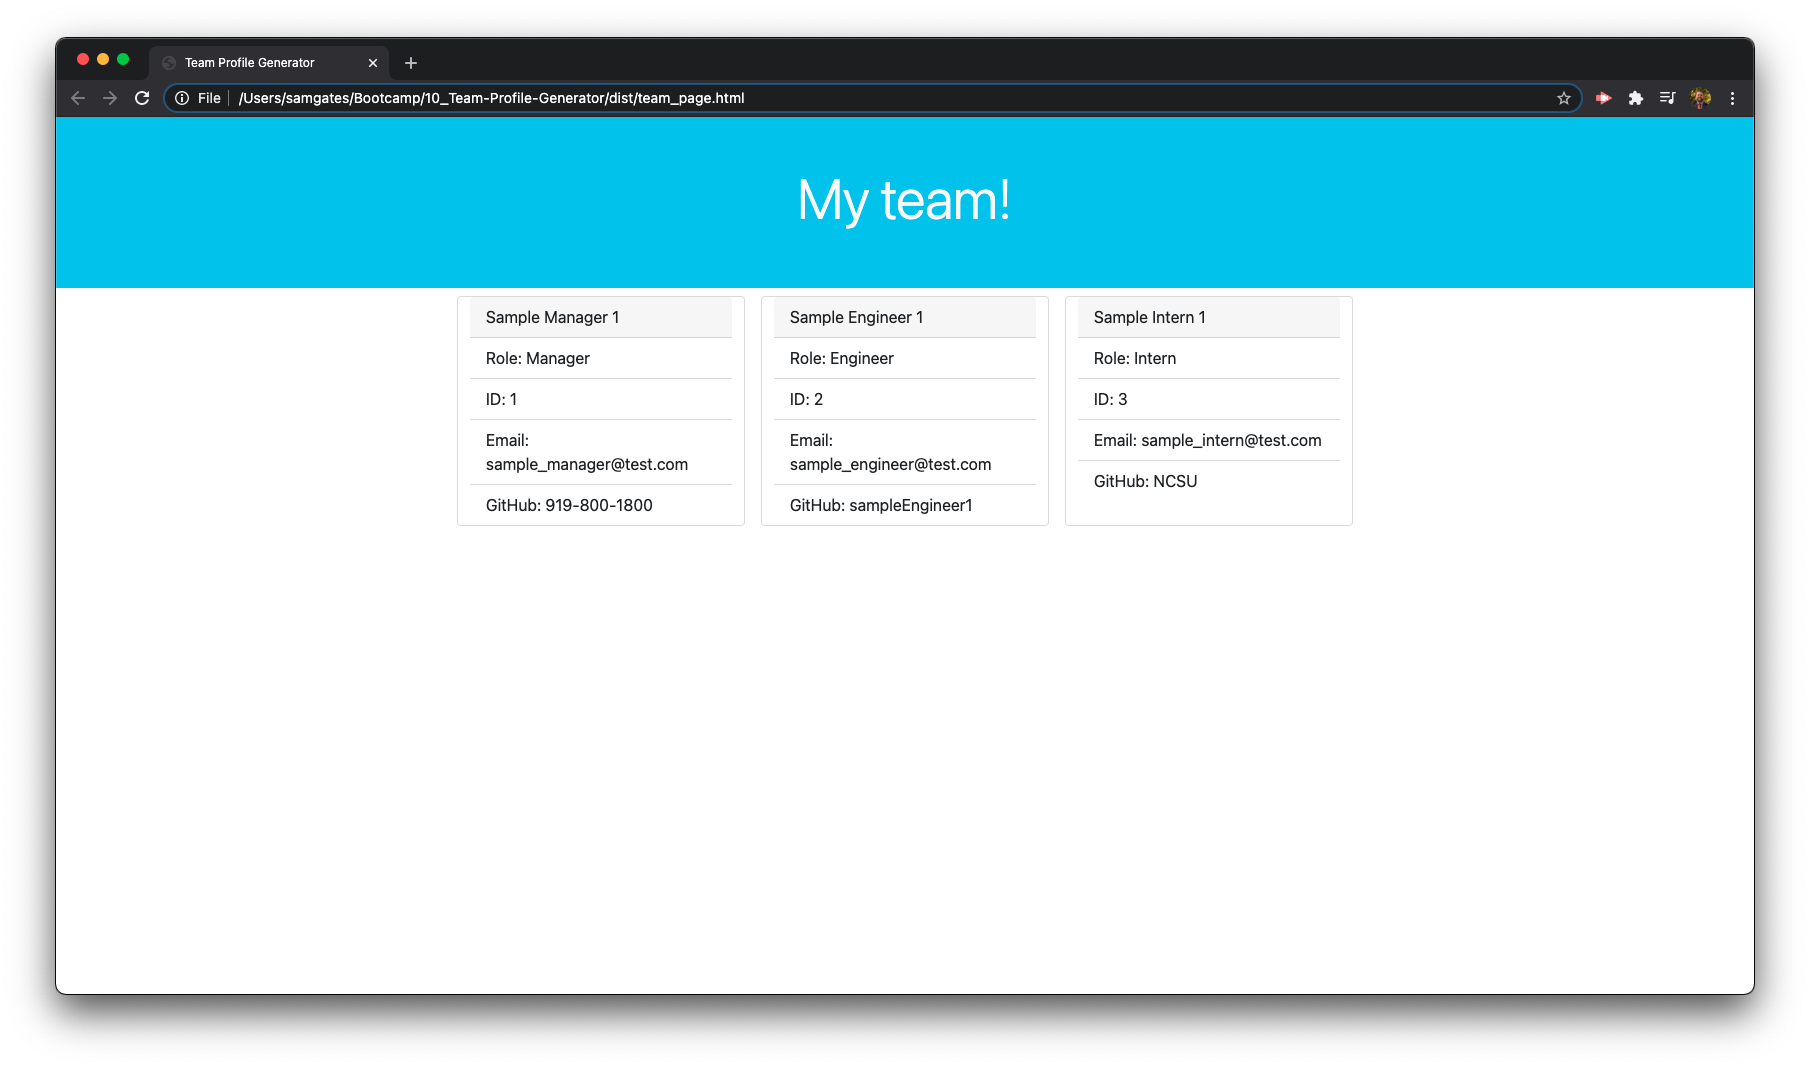
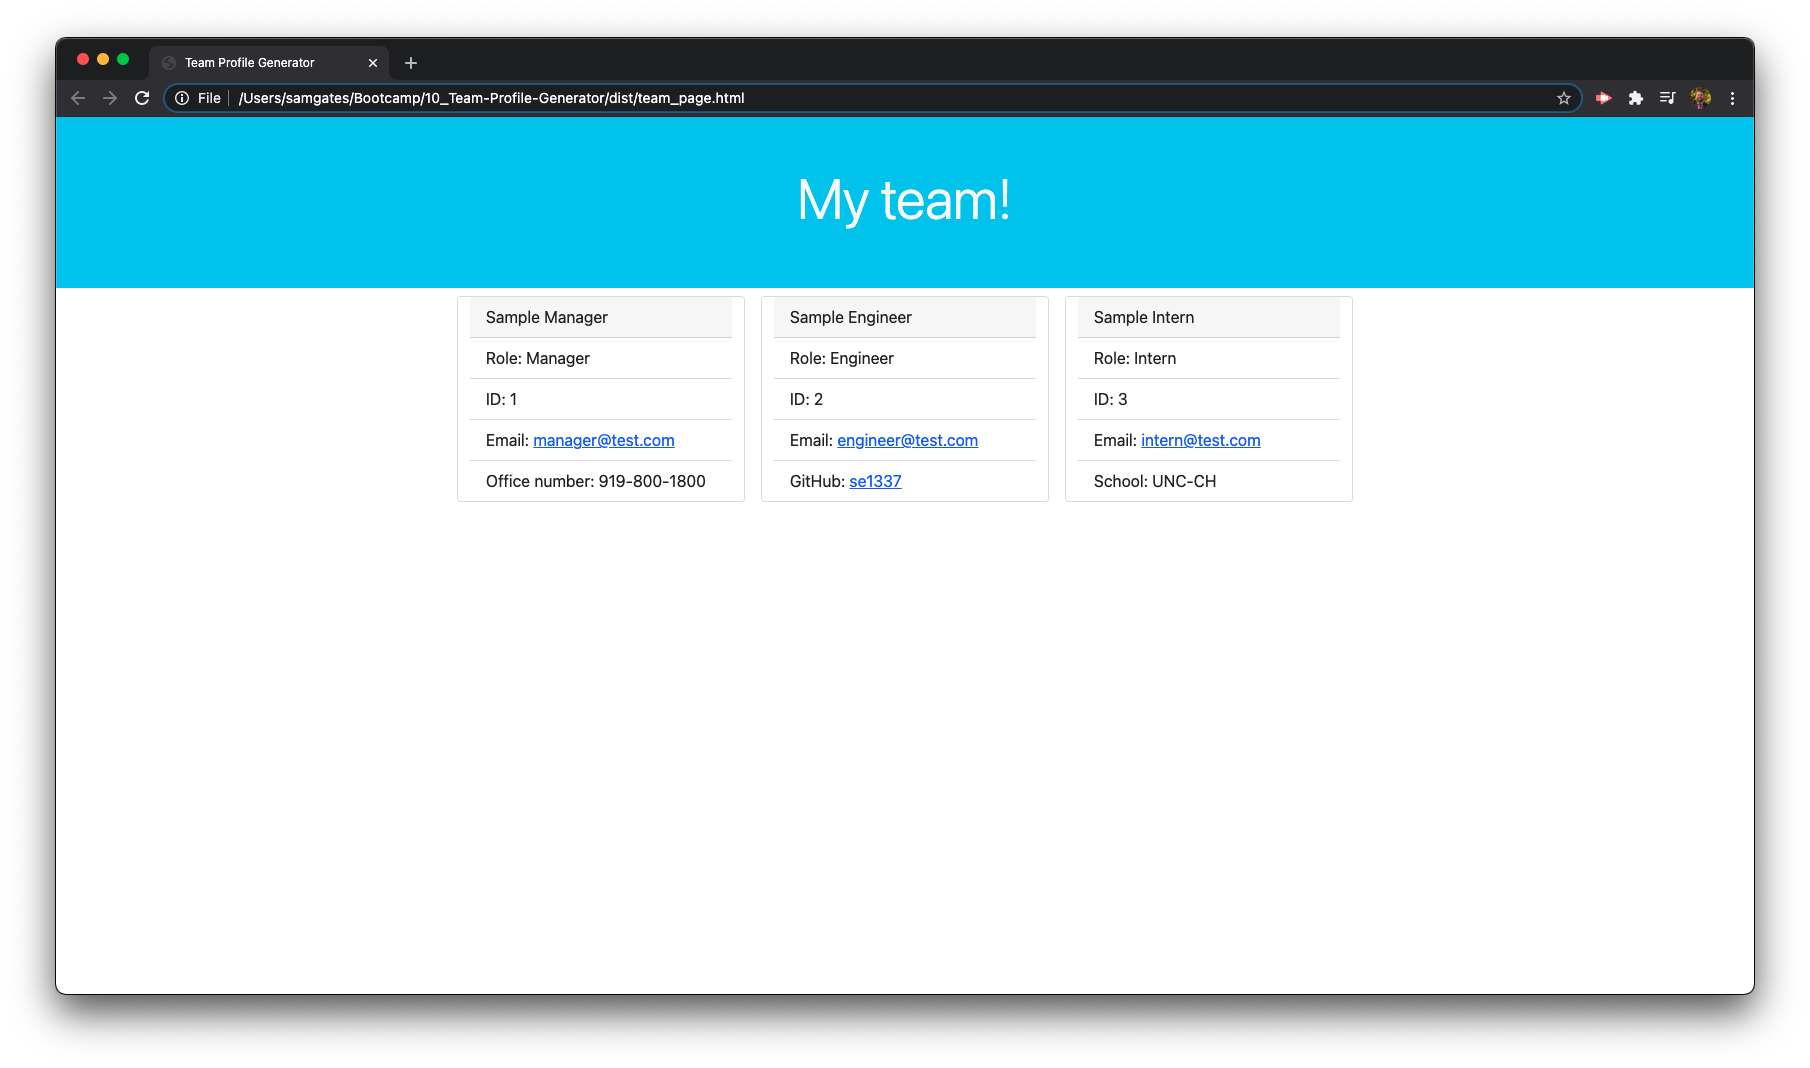
Utilized methods for each class, added links to template, added example HTML file

Changed region(s): [[0.2475, 0.4017, 0.4022, 0.4944], [0.4331, 0.4017, 0.5569, 0.4944], [0.5878, 0.4017, 0.7116, 0.4635]]

diff --git a/lib/page.js b/lib/page.js
@@ -11,13 +11,13 @@ function engineerSection(engineers) {
           let card = `
             <div class="card m-2" style="width: 18rem;">
             <div class="card-header">
-            ${engineer.name}
+            ${engineer.getName()}
             </div>
             <ul class="list-group list-group-flush">
             <li class="list-group-item">Role: ${engineer.getRole()}</li>
-            <li class="list-group-item">ID: ${engineer.id}</li>
-            <li class="list-group-item">Email: ${engineer.email}</li>
-            <li class="list-group-item">GitHub: ${engineer.github}</li>
+            <li class="list-group-item">ID: ${engineer.getId()}</li>
+            <li class="list-group-item">Email: <a href="mailto:${engineer.getEmail()}">${engineer.getEmail()}</a></li>
+            <li class="list-group-item">GitHub: <a href="https://github.com/${engineer.getGithub()}" target="_blank">${engineer.getGithub()}</a></li>
             </ul>
             </div>`;
             
@@ -40,13 +40,13 @@ function internSection(interns) {
           let card = `
             <div class="card m-2" style="width: 18rem;">
             <div class="card-header">
-            ${intern.name}
+            ${intern.getName()}
             </div>
             <ul class="list-group list-group-flush">
             <li class="list-group-item">Role: ${intern.getRole()}</li>
-            <li class="list-group-item">ID: ${intern.id}</li>
-            <li class="list-group-item">Email: ${intern.email}</li>
-            <li class="list-group-item">GitHub: ${intern.school}</li>
+            <li class="list-group-item">ID: ${intern.getId()}</li>
+            <li class="list-group-item">Email: <a href="mailto:${intern.getEmail()}">${intern.getEmail()}</a></li>
+            <li class="list-group-item">School: ${intern.getSchool()}</li>
             </ul>
             </div>`;
 
@@ -62,13 +62,13 @@ function managerSection(manager) {
     let card = `
     <div class="card m-2" style="width: 18rem;">
     <div class="card-header">
-    ${manager.name}
+    ${manager.getName()}
     </div>
     <ul class="list-group list-group-flush">
     <li class="list-group-item">Role: ${manager.getRole()}</li>
-    <li class="list-group-item">ID: ${manager.id}</li>
-    <li class="list-group-item">Email: ${manager.email}</li>
-    <li class="list-group-item">GitHub: ${manager.officeNumber}</li>
+    <li class="list-group-item">ID: ${manager.getId()}</li>
+    <li class="list-group-item">Email: <a href="mailto:${manager.getEmail()}">${manager.getEmail()}</a></li>
+    <li class="list-group-item">Office number: ${manager.getOfficeNumber()}</li>
     </ul>
     </div>`;
     

diff --git a/dist/team_page.html b/dist/team_page.html
@@ -1,0 +1,63 @@
+
+    <!doctype html>
+    <html lang="en">
+      <head>
+        <!-- Required meta tags -->
+        <meta charset="utf-8">
+        <meta name="viewport" content="width=device-width, initial-scale=1">
+    
+        <!-- Bootstrap CSS -->
+        <link href="https://cdn.jsdelivr.net/npm/bootstrap@5.0.0-beta3/dist/css/bootstrap.min.css" rel="stylesheet" integrity="sha384-eOJMYsd53ii+scO/bJGFsiCZc+5NDVN2yr8+0RDqr0Ql0h+rP48ckxlpbzKgwra6" crossorigin="anonymous">
+    
+      <title>Team Profile Generator</title>
+      </head>
+      <body>
+        <div class="jumbotron bg-info text-light p-5 d-flex justify-content-center">
+            <div class="row">
+                <h1 class="col-md-12 display-4 d-flex justify-content-center">My team!</h1><br>
+            </div>
+        </div>
+
+        <!-- CARDS GO INSIDE THIS CONTAINER DIV -->
+        <div class="row w-75 mx-auto justify-content-center">
+        
+    <div class="card m-2" style="width: 18rem;">
+    <div class="card-header">
+    Sample Manager
+    </div>
+    <ul class="list-group list-group-flush">
+    <li class="list-group-item">Role: Manager</li>
+    <li class="list-group-item">ID: 1</li>
+    <li class="list-group-item">Email: <a href="mailto:manager@test.com">manager@test.com</a></li>
+    <li class="list-group-item">Office number: 919-800-1800</li>
+    </ul>
+    </div>
+        
+            <div class="card m-2" style="width: 18rem;">
+            <div class="card-header">
+            Sample Engineer
+            </div>
+            <ul class="list-group list-group-flush">
+            <li class="list-group-item">Role: Engineer</li>
+            <li class="list-group-item">ID: 2</li>
+            <li class="list-group-item">Email: <a href="mailto:engineer@test.com">engineer@test.com</a></li>
+            <li class="list-group-item">GitHub: <a href="https://github.com/se1337" target="_blank">se1337</a></li>
+            </ul>
+            </div>
+        
+            <div class="card m-2" style="width: 18rem;">
+            <div class="card-header">
+            Sample Intern
+            </div>
+            <ul class="list-group list-group-flush">
+            <li class="list-group-item">Role: Intern</li>
+            <li class="list-group-item">ID: 3</li>
+            <li class="list-group-item">Email: <a href="mailto:intern@test.com">intern@test.com</a></li>
+            <li class="list-group-item">School: UNC-CH</li>
+            </ul>
+            </div>   
+        </div>
+    
+    </body>
+    </html>
+    

diff --git a/lib/manager.js b/lib/manager.js
@@ -12,6 +12,10 @@ class Manager extends Employee {
     getRole() {
         return 'Manager';
     }
+
+    getOfficeNumber() {
+        return this.officeNumber;
+    }
 }
 
 module.exports = Manager;

diff --git a/lib/engineer.js b/lib/engineer.js
@@ -12,6 +12,10 @@ class Engineer extends Employee {
     getRole() {
         return 'Engineer';
     }
+
+    getGithub() {
+        return this.github;
+    }
 }
 
 module.exports = Engineer;

diff --git a/lib/intern.js b/lib/intern.js
@@ -12,6 +12,10 @@ class Intern extends Employee {
     getRole() {
         return 'Intern';
     }
+
+    getSchool() {
+        return this.school;
+    }
 }
 
 module.exports = Intern;
